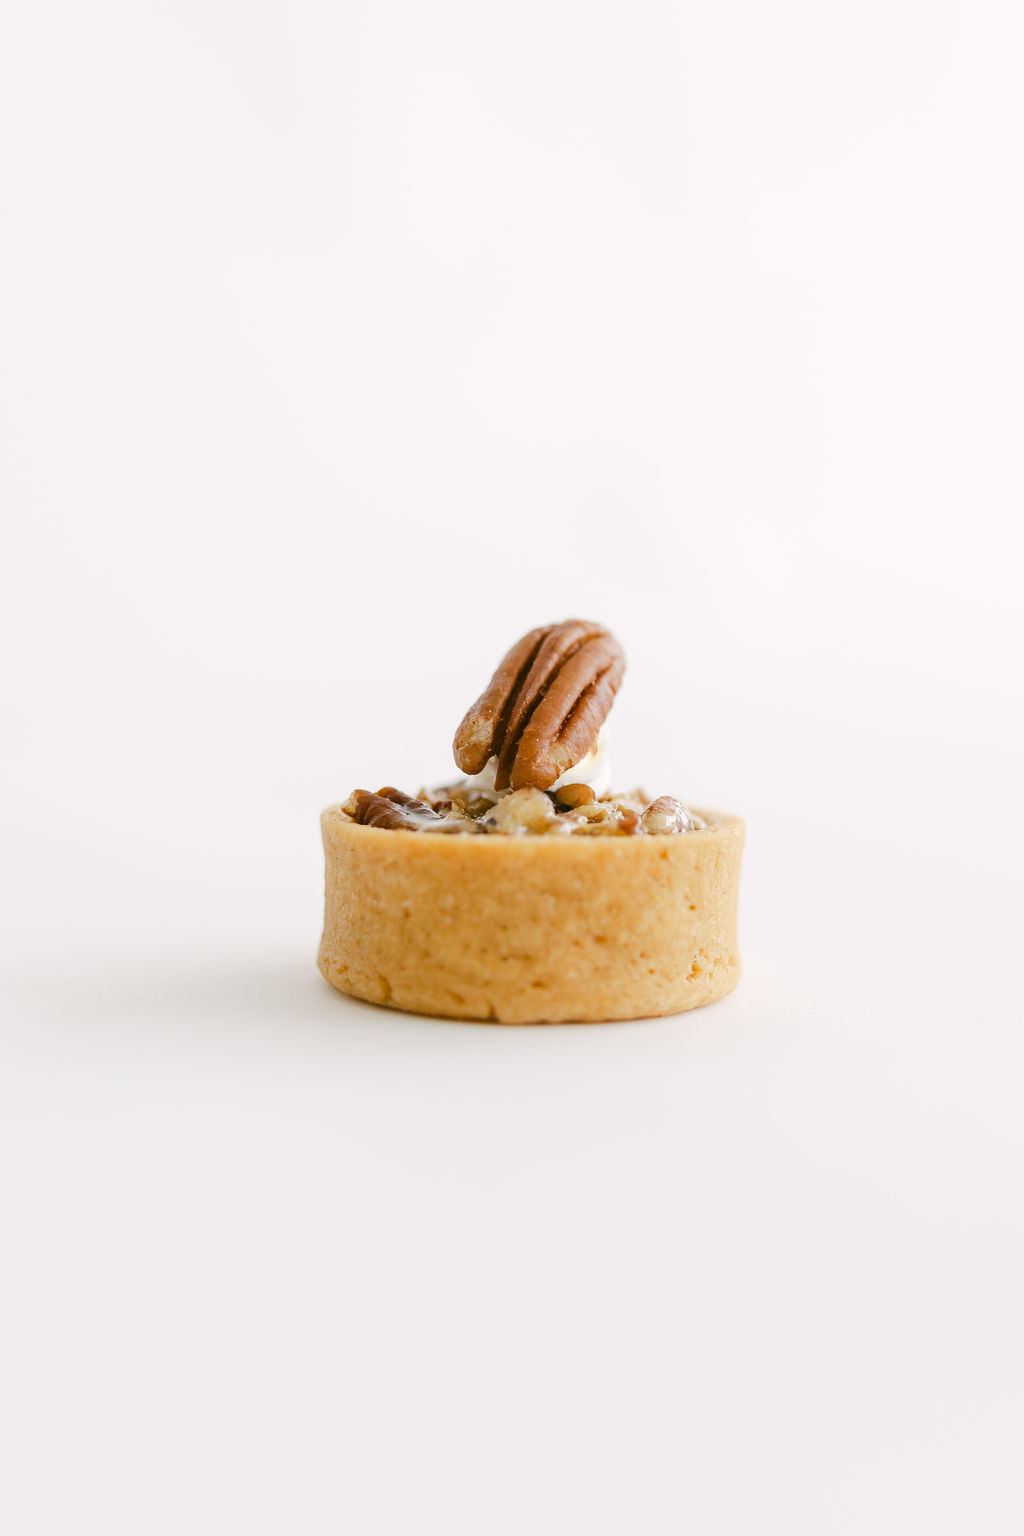
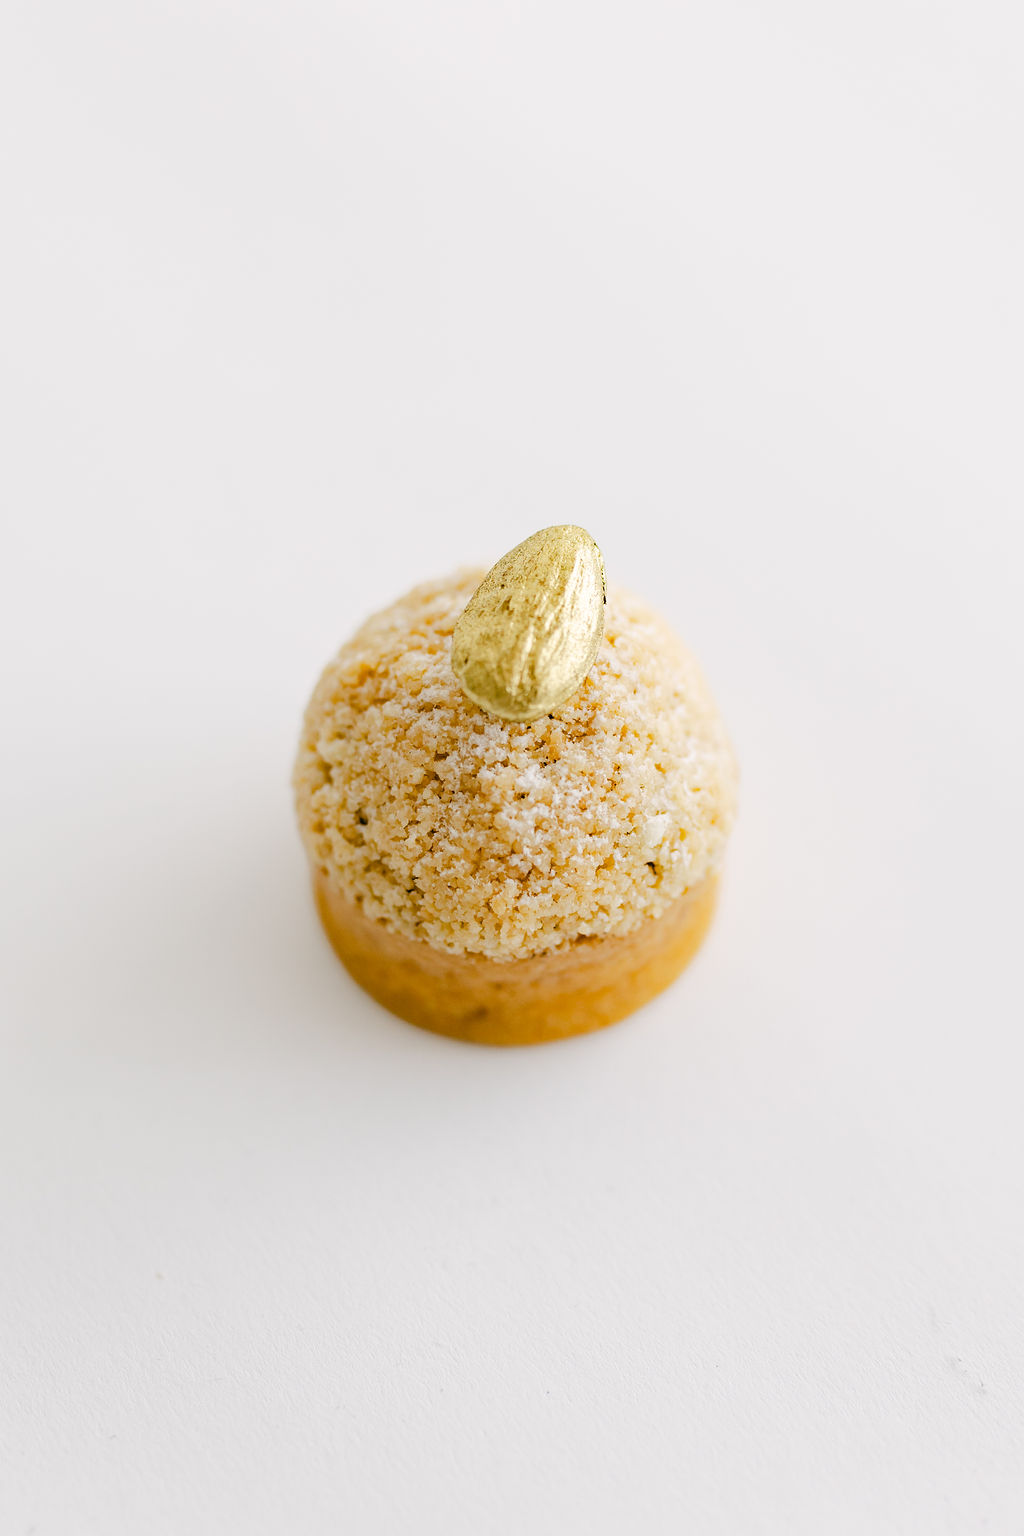
Add files via upload

Changed region(s): [[0.0625, 0.3438, 0.75, 0.75]]

diff --git a/js/shop.js b/js/shop.js
@@ -4,13 +4,13 @@ const IMG = 'Assets/images/';
 
 const products = [
   /* ===== Mini Desserts ===== */
-  { id: 1, name: "S'mores Tart", category: 'mini', price: 2.5, desc: 'Vanilla tart shell layered with caramel, homemade marshmallow, milk chocolate mousse, topped with graham cracker.', image: IMG + 'smores-tart.jpg', options: [{ label: 'Size', type: 'single', choices: ['1"', '2"'] }] },
+  { id: 1, name: "S'mores Tart", category: 'mini', price: 2.5, desc: 'Vanilla tart shell layered with caramel, homemade marshmallow, milk chocolate mousse, topped with graham cracker.', image: IMG + 'smores-tart.jpg?v=2', options: [{ label: 'Size', type: 'single', choices: ['1"', '2"'] }] },
   { id: 2, name: 'Mini Cheesecake Dome', category: 'mini', price: 2.5, desc: 'Short crust biscuit, vanilla bean cheesecake.', image: IMG + 'mini-cheesecake.jpg' },
   { id: 3, name: 'Lemon Meringue Tart', category: 'mini', price: 2.5, desc: 'Vanilla tart shell, lemon curd, toasted meringue.', image: IMG + 'lemon-meringue-tart.jpg', options: [{ label: 'Size', type: 'single', choices: [{ label: '1"', price: 2.5 }, { label: '2"', price: 4 }] }] },
-  { id: 4, name: 'Mini Apple Tart', category: 'mini', price: 2.5, desc: 'Vanilla tart shell, pastry cream, roasted cinnamon apples, toasted crumble.', image: IMG + 'mini-apple-tart.jpg' },
+  { id: 4, name: 'Mini Apple Tart', category: 'mini', price: 2.5, desc: 'Vanilla tart shell, pastry cream, roasted cinnamon apples, toasted crumble.', image: IMG + 'mini-apple-tart.jpg?v=2' },
   { id: 5, name: 'Frutti di Bosco Tart', category: 'mini', price: 2.5, desc: 'Vanilla tart shell, pastry cream, mixed fresh berries.', image: IMG + 'frutti-di-bosco-tart.jpg', options: [{ label: 'Size', type: 'single', choices: [{ label: '1"', price: 2.5 }, { label: '2"', price: 4 }] }] },
   { id: 6, name: 'Mini Cannoli', category: 'mini', price: 2.5, desc: 'Ricotta, Fior di Sicilia essence, traditional Sicilian cannoli shell.' },
-  { id: 7, name: 'Apple Almond Tart', category: 'mini', price: 4, desc: '2" vanilla tart shell, frangipane, pastry cream, roasted cinnamon apples, toasted crumble, golden almond.', image: IMG + 'apple-almond-tart.jpg' },
+  { id: 7, name: 'Apple Almond Tart', category: 'mini', price: 4, desc: '2" vanilla tart shell, frangipane, pastry cream, roasted cinnamon apples, toasted crumble, golden almond.', image: IMG + 'apple-almond-tart.jpg?v=2' },
   { id: 8, name: 'Pecan Tart', category: 'mini', price: 2.5, desc: 'Vanilla tart shell, maple, honey, toasted pecans.', image: IMG + 'pecan-tart.jpg', options: [{ label: 'Size', type: 'single', choices: [{ label: '1"', price: 2.5 }, { label: '2"', price: 4 }] }] },
   { id: 9, name: 'Chocolate Crème Brûlée Tart', category: 'mini', price: 4, desc: '2" chocolate tart shell, vanilla crème brûlée, dark chocolate mousse.', image: IMG + 'chocolate-creme-brulee-tart.jpg' },
   { id: 10, name: 'Salted Caramel Cream Puff', category: 'mini', price: 2.5, desc: 'Choux pastry, caramel, vanilla custard, Maldon sea salt flakes.', image: IMG + 'cream-puff.jpg' },
@@ -578,9 +578,20 @@ function submitOrder() {
   showToast('Inquiry sent');
 }
 
+function scrollShopToTopIfNeeded() {
+  if (!window.matchMedia('(max-width: 860px)').matches) return;
+  const store = document.getElementById('store');
+  if (!store) return;
+  const navH = parseFloat(getComputedStyle(document.documentElement).getPropertyValue('--nav-h')) || 0;
+  if (store.getBoundingClientRect().top < navH - 8) {
+    store.scrollIntoView({ behavior: 'smooth', block: 'start' });
+  }
+}
+
 function filterProducts(category) {
   closeCustomize();
   renderProducts(category);
+  scrollShopToTopIfNeeded();
 }
 
 function renderProducts(filter) {

diff --git a/index.html b/index.html
@@ -346,7 +346,7 @@
 
 <div class="toast" id="toast" role="status" aria-live="polite"></div>
 
-<script src="js/shop.js?v=15"></script>
+<script src="js/shop.js?v=16"></script>
 <script>
   const nav = document.getElementById('nav');
   const navLinks = document.getElementById('navLinks');
